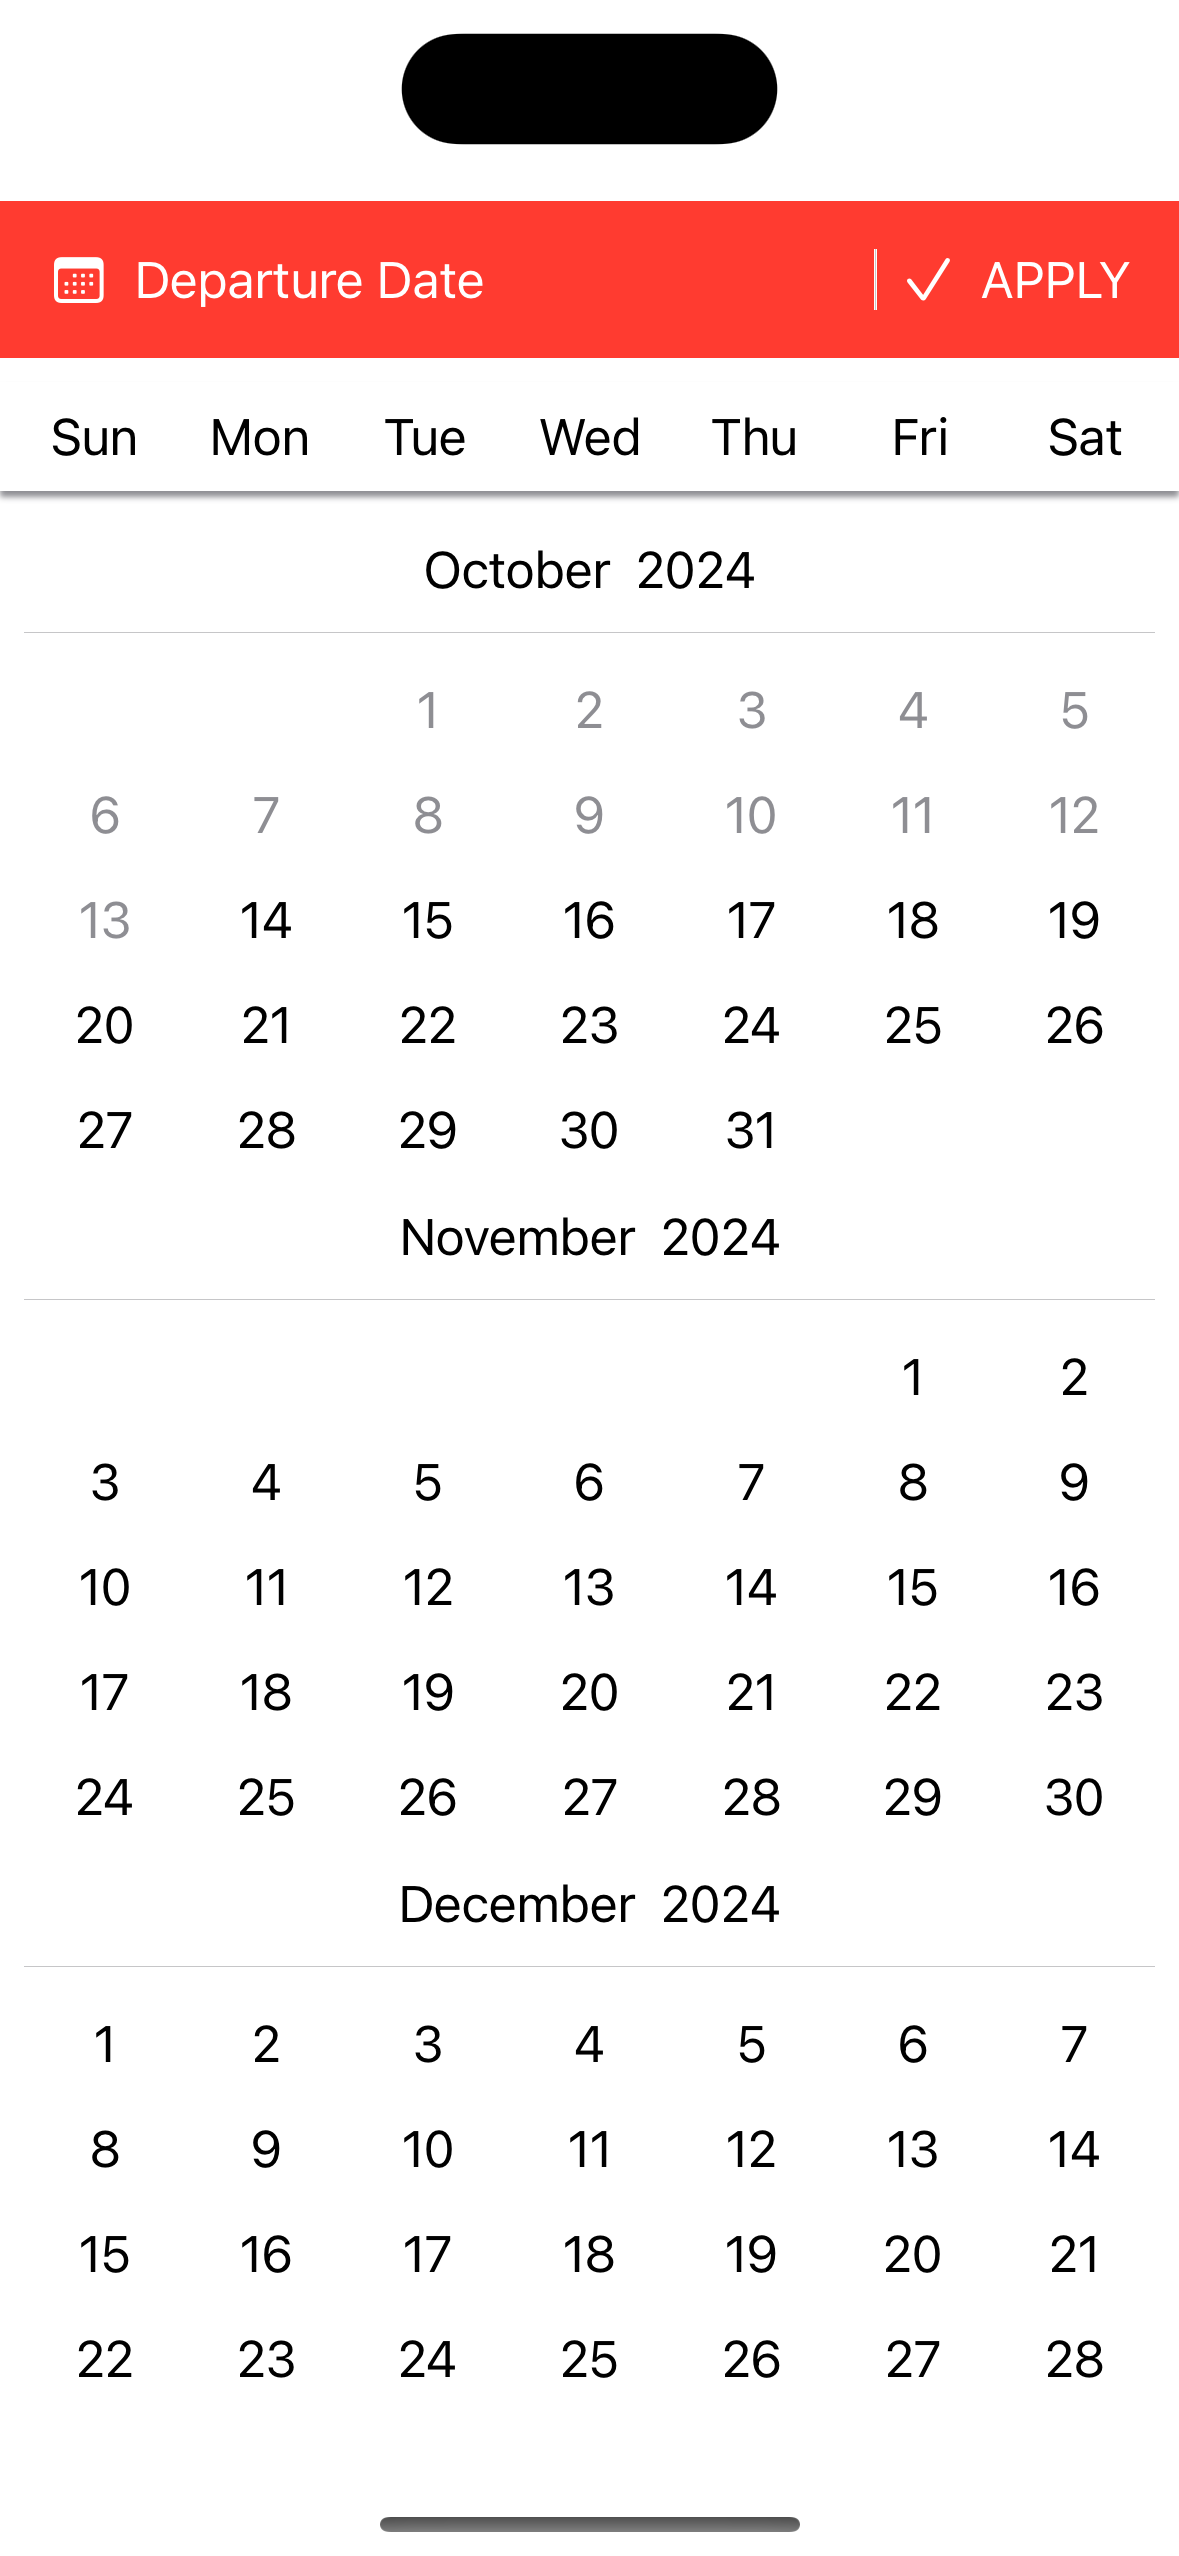
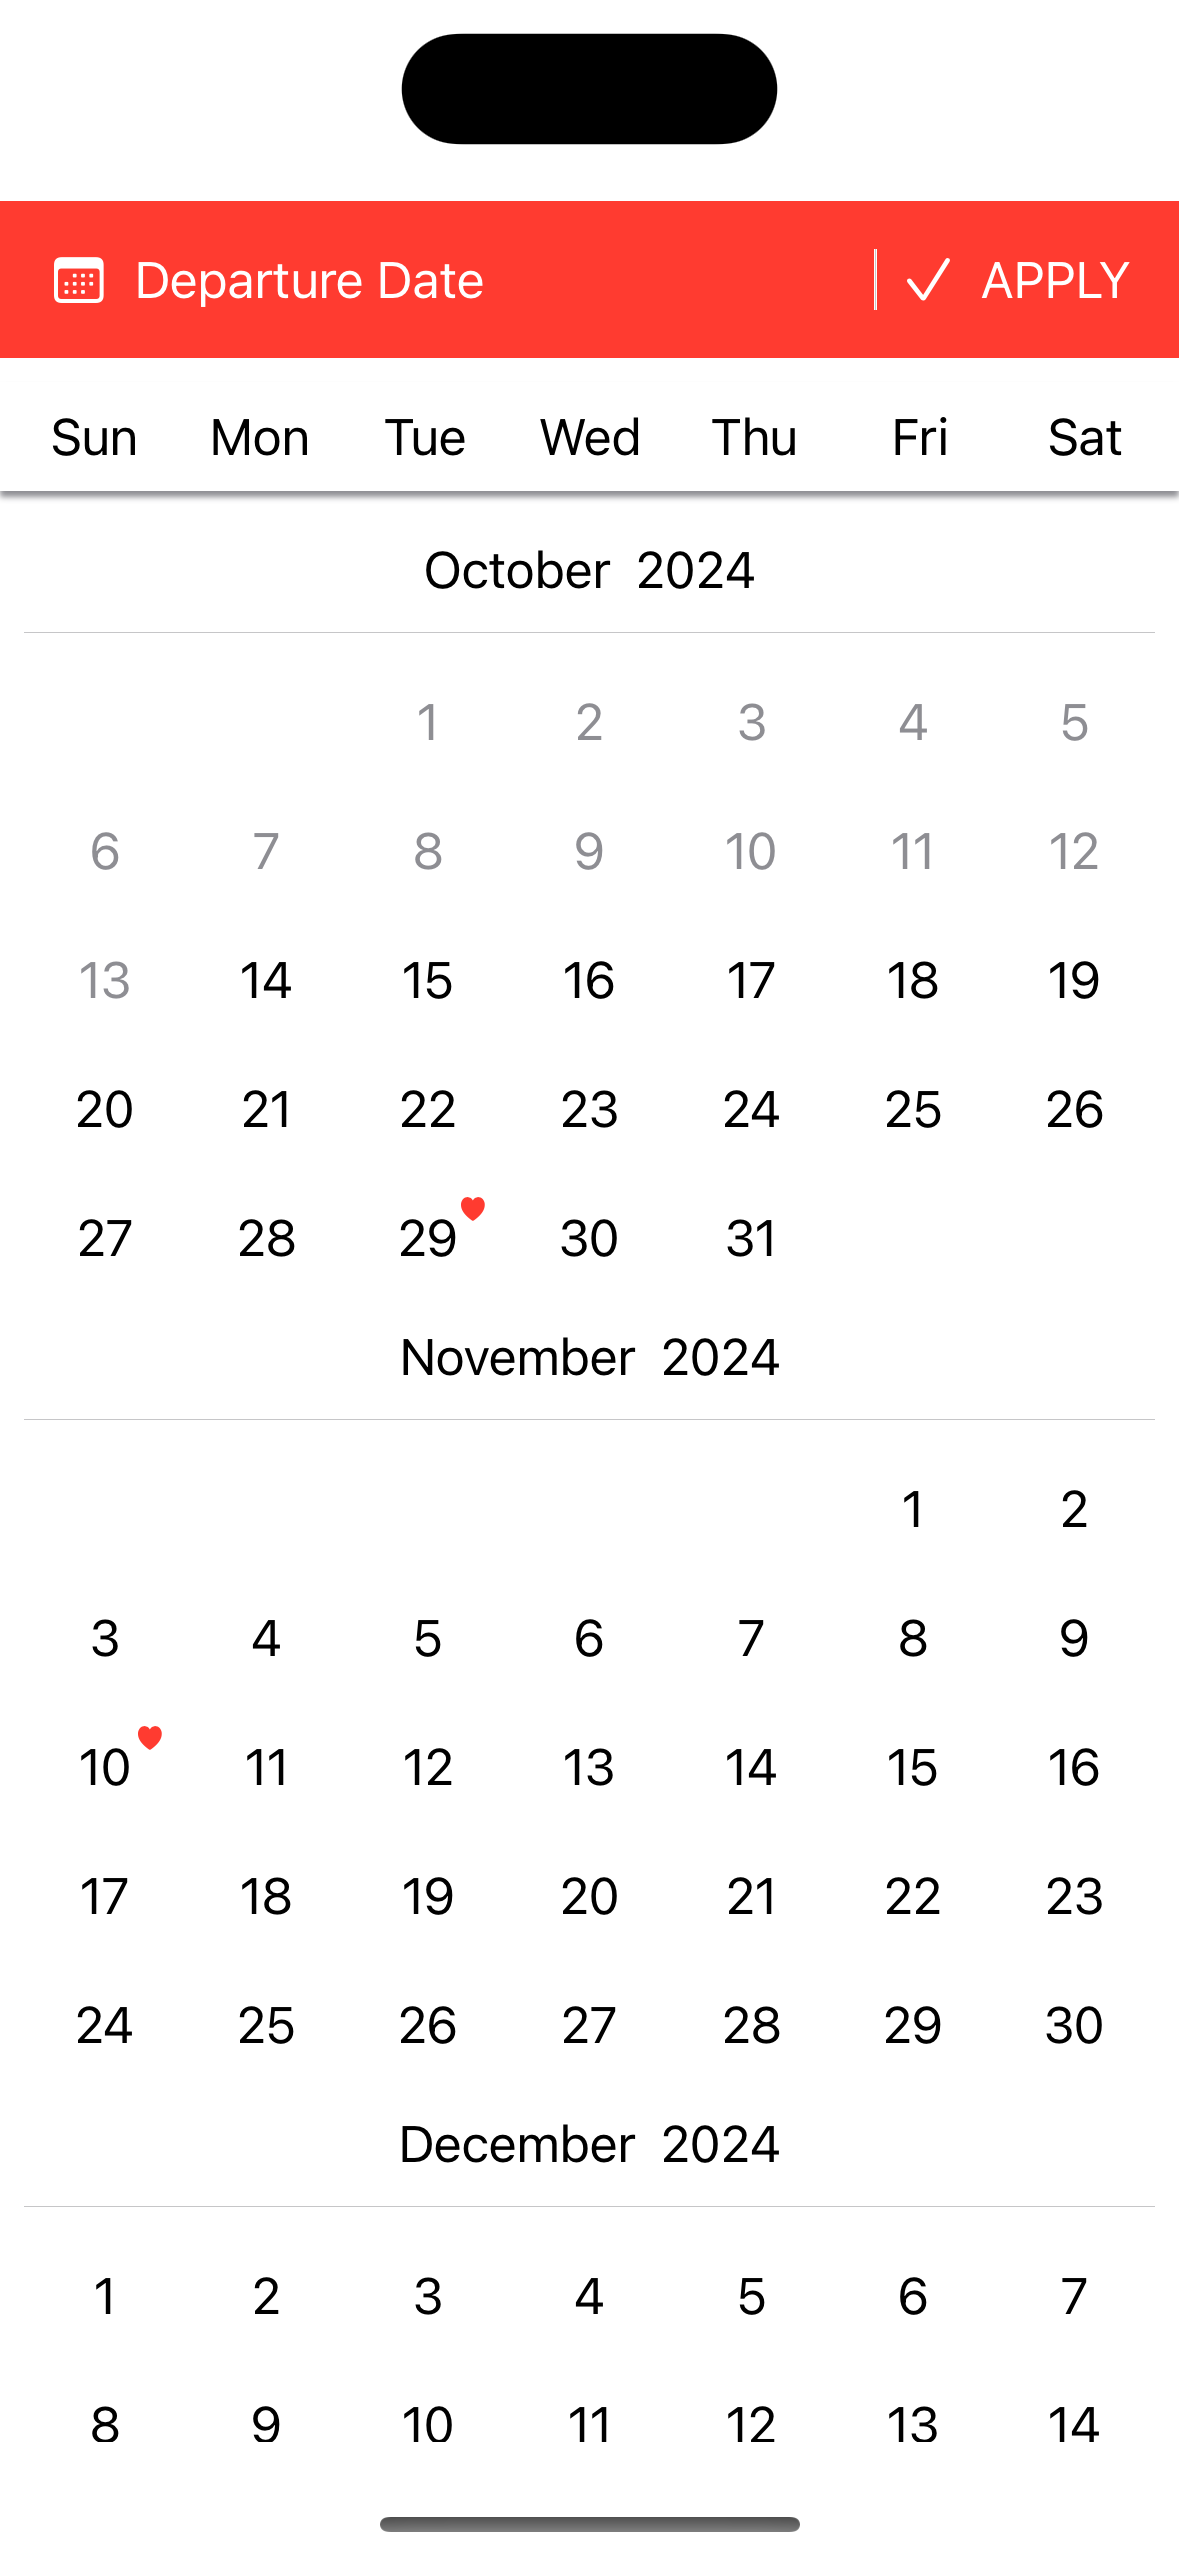
feat: change a step in cahpter 4

diff --git a/Sources/OBCalendar/ObiletCalendar.docc/tutorials/Chapters/Chapter-4/Codes/tutorial-1/c4-t1-s1-step4.swift b/Sources/OBCalendar/ObiletCalendar.docc/tutorials/Chapters/Chapter-4/Codes/tutorial-1/c4-t1-s1-step4.swift
@@ -67,12 +67,18 @@ struct OBCalendarWithSpecialDay: View {
         OBCalendar(years: years) { model, scrollProxy in
             // Day View goes here
             let day = model.day
-            
-            modifyDayView(model: day) {
-                Text("\(day.day)")
-                    .frame(width: 35, height: 35)
+            let dayView = Text("\(day.day)")
+                .frame(height: 35)
+                .frame(maxWidth: .infinity)
+                .padding(.vertical,4)
+                
+            let modifiedDayView = modifyDayView(model: day) {
+                dayView
             }
             
+            modifySpecialDayView(model: day) {
+                modifiedDayView
+            }
             
         } monthContent: { model, scrollProxy, daysView in
             // Month View goes here
@@ -151,7 +157,6 @@ struct OBCalendarWithSpecialDay: View {
             }
         }
     }
-    
     func modifySpecialDayView<Content: View>(
         model: CalendarModel.Day,
         @ViewBuilder content: () -> Content
@@ -221,7 +226,7 @@ extension Dictionary where Key == Date?, Value == String {
             }
         }
     }
-        
+    
     func contains(date: Date) -> Bool {
         self.contains { element in
             element.key ==  date

diff --git a/Sources/OBCalendar/ObiletCalendar.docc/tutorials/Chapters/Chapter-4/Codes/tutorial-1/c4-t1-s1-step5.swift b/Sources/OBCalendar/ObiletCalendar.docc/tutorials/Chapters/Chapter-4/Codes/tutorial-1/c4-t1-s1-step5.swift
@@ -132,6 +132,27 @@ struct OBCalendarWithSpecialDay: View {
         return reorderedShortWeekdays
     }
     
+    func makeSpecialDaysView(year: Int, month: CalendarModel.Month) -> some View {
+        contentBuilder {
+            if specialDays.yearExist(year: year, calendar: calendar) {
+                ForEach(month.days.indices, id: \.self) { index in
+                    let day = month.days[index]
+                    if case .insideRange(.currentMonth) = day.rangeType,
+                       let specialDay = specialDays.get(year: year, month: month.month, day: day.day, calendar: calendar){
+                        HStack {
+                            Image(systemName: "circle.fill")
+                                .resizable()
+                                .frame(width: 12, height: 12)
+                                .aspectRatio(contentMode: .fit)
+                                .foregroundColor(.red)
+                            Text(specialDay.value)
+                        }
+                    }
+                }
+            }
+        }
+    }
+    
     
     func modifyDayView<Content: View>(
         model: CalendarModel.Day,

diff --git a/Sources/OBCalendar/ObiletCalendar.docc/tutorials/Chapters/Chapter-4/Codes/tutorial-1/c4-t1-s1-step6.swift b/Sources/OBCalendar/ObiletCalendar.docc/tutorials/Chapters/Chapter-4/Codes/tutorial-1/c4-t1-s1-step6.swift
@@ -89,6 +89,12 @@ struct OBCalendarWithSpecialDay: View {
                 }
                 Divider()
                 daysView
+                
+                if !specialDays.isEmpty {
+                    makeSpecialDaysView(year: model.year.year, month: model.month)
+                        .frame(maxWidth: .infinity,alignment: .leading)
+                        .padding()
+                }
             }
             .padding(4)
         } yearContent: { model, scrollProxy, monthsView in
@@ -142,7 +148,7 @@ struct OBCalendarWithSpecialDay: View {
                         HStack {
                             Image(systemName: "circle.fill")
                                 .resizable()
-                                .frame(width: 12, height: 12)
+                                .frame(width: 8, height: 8)
                                 .aspectRatio(contentMode: .fit)
                                 .foregroundColor(.red)
                             Text(specialDay.value)
